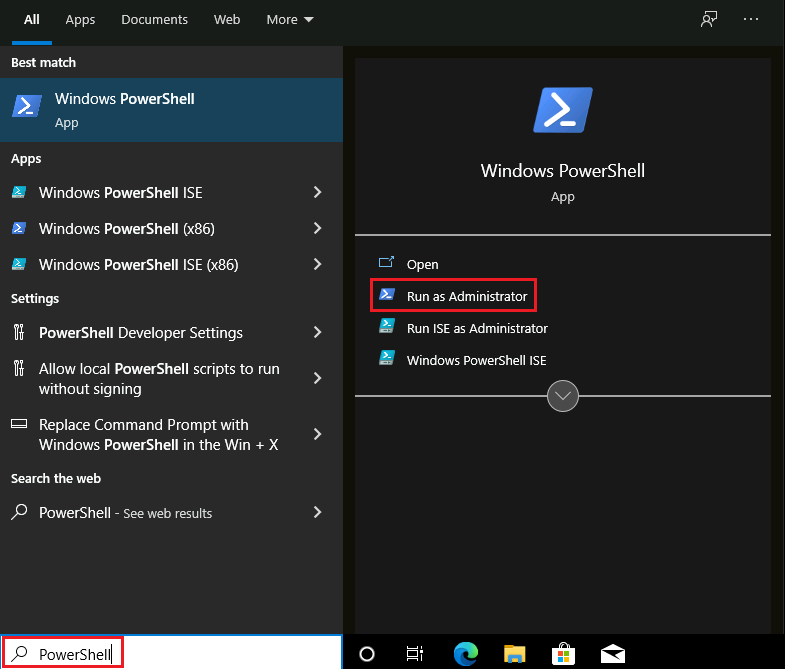
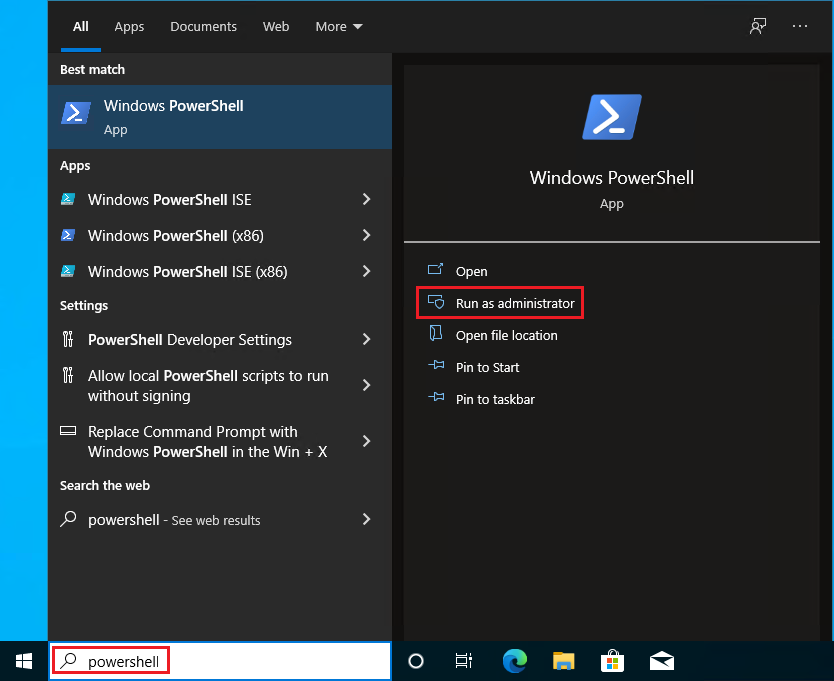
Use RDP instead of Bastion

diff --git a/Before HOL/Microsoft Defender for IoT BHOL.md b/Before HOL/Microsoft Defender for IoT BHOL.md
@@ -31,13 +31,13 @@ To validate your subscription is active, go to Azure Portal: https://portal.azur
 
 Right in the home portal you should see the icon for **Subscriptions** click on it you sould see a new Subscription available, also the same subscription could be available in the **Recent Resources** list.
 
- ![NewAzureSubscription](./images/AAT01-01-nre-subs.png 'New Subscription')
+![NewAzureSubscription](./images/AAT01-01-nre-subs.png 'New Subscription')
 
 </br>
 
 If you don't see your subscription, validate you are accessing the right directory. Go to the top right corner menu, select **Directories+Subscriptions** icon and **Switch** button to change and validate again.
 
-  ![Dir](./images/AAT01-02-azure-directory.png 'Directory')
+![Dir](./images/AAT01-02-azure-directory.png 'Directory')
 
 </br>
 
@@ -45,15 +45,15 @@ If you don't see your subscription, validate you are accessing the right directo
 
 Once your Azure Pass is activated and you have a new subscription to work with, you are ready to setup the environment you will use during the Microsoft Defender for IoT Hands-on-Lab. For the HOL, you will create one single resource group to host all the services that you will use during the lab.
 
- </br>
+</br>
 
 ### **Task 1: Resources** ###
 
 1. In the Azure Portal, create a new Resource Group. From the home Page, select **+ Create a Resource**, in the search box type **Resource Group**, then select **Create**.
 
-   In the next window, select your subscription, assign a name to the resource group **rg-md4iot+SUFFIX**, select a location near you and click on **Review + Create**. Once you passed the validation, click **create** again. Note, the resource group name needs to be unique within your subscription. That is why we suggest to add a suffix, for instance your initials followed by a number.
+    In the next window, select your subscription, assign a name to the resource group **rg-md4iot+SUFFIX**, select a location near you and click on **Review + Create**. Once you passed the validation, click **create** again. Note, the resource group name needs to be unique within your subscription. That is why we suggest to add a suffix, for instance your initials followed by a number.
 
-![RG Create](./images/ABT01-01-rg-create.png 'Create a Resource Group')
+    ![RG Create](./images/ABT01-01-rg-create.png 'Create a Resource Group')
 
 </br>
 
@@ -61,7 +61,7 @@ Once your Azure Pass is activated and you have a new subscription to work with, 
 
 1. In the upper-left side of the Azure Portal, select: **Create a resource** > **Compute** > **Virtual machine** >> **Create**
 
-![VM Resource](./images/ABT02-01-resource-create.png 'Create VM resource')
+    ![VM Resource](./images/ABT02-01-resource-create.png 'Create VM resource')
 
 </br>
 
@@ -84,19 +84,19 @@ Once your Azure Pass is activated and you have a new subscription to work with, 
     | Password | **Learningmode123!** |
     | Confirm password | **Learningmode123!** |
     | **Inbound port rules** |    |
-    | Public inbound ports | Select **3389**. </br> Note: If you plan to use Azure Bastion to connect to your VM, you can leave public inbound ports blank. |
+    | Public inbound ports | Select **3389** |
     | **Licensing** |    |
     | I confirm I have an eligible Windows 10 license with multi-tenant hosting rights. | **Check the box**. |
 
-</br>
+    </br>
 
-![VM Create](./images/ABT02-02-vm-create.png 'Create a new Virtual Machine')
+    ![VM size](./images/ABT02-02-vm-create.png 'Create a new Virtual Machine')
 
 </br>
 
 3. In the Size section, select **See all Images**, look for the **D-Series v3** open that section, then you will find the right VM.
 
-![VM size](./images/ABT02-03-vm-size.png 'Select VM size')
+    ![VM size](./images/ABT02-03-vm-size.png 'Select VM size')
 
 </br>
 
@@ -106,7 +106,7 @@ Once your Azure Pass is activated and you have a new subscription to work with, 
     
 6. It will take a few minutes to deploy your VM. At the end you should an indication that your deployment is complete.
 
-![VM Deploy](./images/ABT02-04-vm-deployed.png 'VM deployment complete')
+    ![VM Deploy](./images/ABT02-04-vm-deployed.png 'VM deployment complete')
 
 </br>
 
@@ -116,54 +116,46 @@ Once your Azure Pass is activated and you have a new subscription to work with, 
 
 2. Make sure that the Virtual Machine status is **Running**.
 
-![VM Running](./images/ABT03-01-vm-running.png 'VM Status Running')
+    ![VM Running](./images/ABT03-01-vm-running.png 'VM Status Running')
+
+    </br>
+
+    > **TIP:** You will not be able to connect if your Virtual Machines is not in **Running** status. So give it a minute or two to finish updating.
+
+     </br>
+
+3. In the VM menu, select **Connect**, then select **RDP**.
+
+    ![VM Connect](./images/ABT03-02-vm-connect.png 'Virtual Machine Connection options')
+
+    </br>
+
+    > **NOTE:** In this HOL you are using RDP to connect to your virtual machine. A more secure option is to use Bastion, however, there are subscription costs we have to take into account. Because your Azure pass only has a limited amount of credit, we want to make sure that you get the most out of it working with Microsoft Defender for IoT.
+  
+    In the **Connect** page, click on **Download RDP File** and click on **Open**.
+
+    ![RDP Download](./images/ABT03-03-download-rdpfile.png 'Download RDP file')
+
+  </br>
+
+4. In the RDP login screen, enter the username and password for the virtual machine.
+
+    | Field | Enter |
+    |-------|-------|
+    | **Username** | *MDefenderLab* |
+    | **Password** | *Learningmode123!* |
+
+    ![RDP Login](./images/ABT03-04-rdp-login.png 'RDP Login to VM')
 
 </br>
 
-> **TIP:** You will not be able to connect if your Virtual Machines is not in **Running** status. So give it a minute or two to finish updating.
+5. Click **OK** to login to the virtual machine.
 
- </br>
-
-3. In the VM menu, select **Connect**, then select **Bastion** or **RDP**.
-
-![VM Connect](./images/ABT03-02-vm-connect.png 'Virtual Machine Connection options')
-
-</br>
-
-4. If you select **Bastion** you will be ask to set it up in 3 steps, **Step 1** is already completed, for **Step 2**, click on **Create Subnet**.
-
-![Bastion Setup](./images/ABT03-03-vm-bastion-setup.png 'Create Bastion subnet')
-
-</br>
-
-5. After step 2 is completed, **Step 3** in the Bastion creation process will set up a public ip. Scroll down and click on **Create Azure Bastion using defaults**.
-
-![Bastion Setup Final](./images/ABT03-04-vm-bastion-setup-final.png 'Finalizing Bastion setup')
-
-</br>
-
-> **NOTE:** Bastion is a paid Azure Service. However, it allows you to connect securely and seamlessly to VMs inside your Azure Virtual Network.
-
-After a few minutes you will be able to login
-
-In the **Bastion** page, click on **Use Bastion** then enter the username and password for the virtual machine.
-
-  | Field | Enter |
-  |-------|-------|
-  | **Username** | *MDefenderLab* |
-  | **Password** | *Learningmode123!* |
-
-![Bastion Login](./images/ABT03-05-vm-bastion-login.png 'Bastion Login to VM')
-
-</br>
-
-5. Select **Connect**.
-
-6. A new tab should open, and you should be connected to your virtual machine.
-
+6. A new window should open which is the connection to your Virtual Machine.
+ 
 7. **Accept** the default settings.
 
-![Bastion Connect](./images/ABT03-06-vm-bastion-connected.png 'Bastion connected to VM')
+    ![Default Settings](./images/ABT03-05-vm-connected.png 'Accept privacy settings')
 
 </br>
 
@@ -172,7 +164,7 @@ We are going to enable Hyper-V via PowerShell in the newly created VM. This allo
 
 1. Search for **PowerShell** and right click to select **Run as Administrator**.
 
-![SearchPS](./images/ABT04-01-Start-Powershell.png 'Run PowerShell as Admin')
+    ![SearchPS](./images/ABT04-01-Start-Powershell.png 'Run PowerShell as Admin')
 
 </br>
 
@@ -186,18 +178,18 @@ We are going to enable Hyper-V via PowerShell in the newly created VM. This allo
 
 3. When the installation has completed, reboot the VM by typing in **Y**.
 
-![PowerShell](./images/ABT04-02-HyperV-Enabled.png 'Enable Hyper-V')
+    ![PowerShell](./images/ABT04-02-HyperV-Enabled.png 'Enable Hyper-V')
 
 </br>
 
 4. Reconnect to the VM.
 
-> **NOTE:** If you are not prompted to restart the VM within PowerShell, please close the Bastion Host tab, return to the Azure Portal and select your VM. At this point you can either "restart your VM" and reconnect via Bastion or you can *STOP* the VM and *Start* the VM again.
+    > **NOTE:** If you are not prompted to restart the VM within PowerShell, please close the RDP Connetion, return to the Azure Portal and select your VM. At this point you can either "restart your VM" and reconnect via RDP or you can *STOP* the VM and *Start* the VM again.
 
 
-5. Login back to the Virtual Machine, using RDP or Bastion, open **Microsoft Edge** and download the ['Storage Explorer'](https://azure.microsoft.com/en-us/features/storage-explorer/ 'Storage Explorer') click **Download now**.
+5. Login back to the Virtual Machine, using RDP, open **Microsoft Edge** and download the ['Storage Explorer'](https://azure.microsoft.com/en-us/features/storage-explorer/ 'Storage Explorer') click **Download now**.
 
-![StorageExplorer](./images/ABT04-03-download-storage-explorer.png 'Downloading Azure Storage Explorer')
+    ![StorageExplorer](./images/ABT04-03-download-storage-explorer.png 'Downloading Azure Storage Explorer')
 
 </br>
 
@@ -221,9 +213,9 @@ You will execute this task on your physical machine, not in the Virtual Machine 
     - **Performance**: Standard
     - **Redundancy**: Locally-redundant storage(LRS)
 
-Then **Review + Create** after the validation is complete, click **Create**
+    Then **Review + Create** after the validation is complete, click **Create**
 
-  ![SA](./images/ABT05-01-sa-create.png 'Create Storage Account')
+    ![SA](./images/ABT05-01-sa-create.png 'Create Storage Account')
 
 </br>
 
@@ -231,13 +223,13 @@ Then **Review + Create** after the validation is complete, click **Create**
 
 4. A new window will open on the right, assign a name **activationfiles** and then click **Create**.
 
-  ![SA container](./images/ABT05-02-sa-create-container.png 'Add Container to Storage Account')
+    ![SA container](./images/ABT05-02-sa-create-container.png 'Add Container to Storage Account')
 
 </br>
 
-5. Login to the Windows Virtual Machine you created earlier with Bastion or RDP. In the search box on the desktop enter **Microsoft Storage Explorer**. 
+5. Login to the Windows Virtual Machine you created earlier with RDP. In the search box on the desktop enter **Microsoft Storage Explorer**. 
 
-  ![SA](./images/ABT05-03-storage-explorer.png 'Find Azure Storage Explorer')
+    ![SA](./images/ABT05-03-storage-explorer.png 'Find Azure Storage Explorer')
 
 </br>
 
@@ -245,32 +237,33 @@ Then **Review + Create** after the validation is complete, click **Create**
 
 7.  Once you are login, go to the connect icon on the left bar, then select **Storage account or service**.
 
-![SAResource](./images/ABT05-04-connect-to-sa.png 'Select Azure Storage Explorer Resource') 
+    ![SAResource](./images/ABT05-04-connect-to-sa.png 'Select Azure Storage Explorer Resource') 
 
 </br>
 
 9. In the next step select **Shared Access Signature URL(SAS)** and then **Next**
 
-![SAConnectMethod](./images/ABT05-05-sas-url.png  'Select Azure Storage Explorer Connection Method') 
+    ![SAConnectMethod](./images/ABT05-05-sas-url.png  'Select Azure Storage Explorer Connection Method') 
 
 </br>
 
 10. In the Enter Connection Info window, you wil assign a name to the connection **HOLFiles** and you will paste below the Blob SAS URL (service URL) you received by email prior to this training.
 
-![SAConnectInfo](./images/ABT05-06-sas-url-input.png  'Enter Azure Storage Explorer Connection Info') 
+    ![SAConnectInfo](./images/ABT05-06-sas-url-input.png  'Enter Azure Storage Explorer Connection Info') 
 
 </br>
 
 11. Once the storage account is connected you should select the container on the left side **attendeefiles** then **Labfiles** now in the right side you will see the two files you need to download locally. Select the files and click **Download**
 
-![SAOpenApp](./images/ABT05-07-files-ready.png  'SA Open app') 
+    ![SAOpenApp](./images/ABT05-07-files-ready.png  'SA Open app') 
 
 </br>
 
- 12. When this download is complete, close your RDP or Bastion connection.
- 13. On your physical machine, go to the Azure Portal, select your Virtual Machine and click **Stop**. Now you are all set for your training session. 
+12. When this download is complete, close your RDP connection.
 
- ![StopVM](./images/ABT05-08-stop-vm.png 'Stop the VM') 
+13. On your physical machine, go to the Azure Portal, select your Virtual Machine and click **Stop**. Now you are all set for your training session. 
+
+    ![StopVM](./images/ABT05-08-stop-vm.png 'Stop the VM') 
 
 </br>
 
@@ -280,19 +273,19 @@ You will execute this task on your physical machine, not in the Virtual Machine 
 
 1.	Go to Azure Portal, in the top search box, type **Microsoft Sentinel**, then select it from the list.
  
- ![SentinelSearch](./images/ABT06-01-search-sentinel.png 'Sentinel search') 
+    ![SentinelSearch](./images/ABT06-01-search-sentinel.png 'Sentinel search') 
 
- 2.	Then, click **Create**, a new pop up window appears, select **+ Create a new workspace**
+2.	Then, click **Create**, a new pop up window appears, select **+ Create a new workspace**
  
- ![SentinelCreate](./images/ABT06-02-create-sentinel.png 'Sentinel create') 
+    ![SentinelCreate](./images/ABT06-02-create-sentinel.png 'Sentinel create') 
 
- 3. In the new window, fill the form with the following data:
+3. In the new window, fill the form with the following data:
     - **Subscription**: Select the subscription you are using for this training.
-  - **Resource Group**: select the resource group you created previously.
-  - **Name**: Mylogworkspace+SUFFIX
-  - **Regions**: West Europe (or another region close to you).
+    - **Resource Group**: select the resource group you created previously.
+    - **Name**: Mylogworkspace+SUFFIX
+    - **Regions**: West Europe (or another region close to you).
  
- ![SentinelCreateWS](./images/ABT06-03-create-log-analytics-ws.png 'Sentinel create workspace') 
+     ![SentinelCreateWS](./images/ABT06-03-create-log-analytics-ws.png 'Sentinel create workspace') 
 
  4. Click **Review and create**, after validation is completed, click **create**
 
